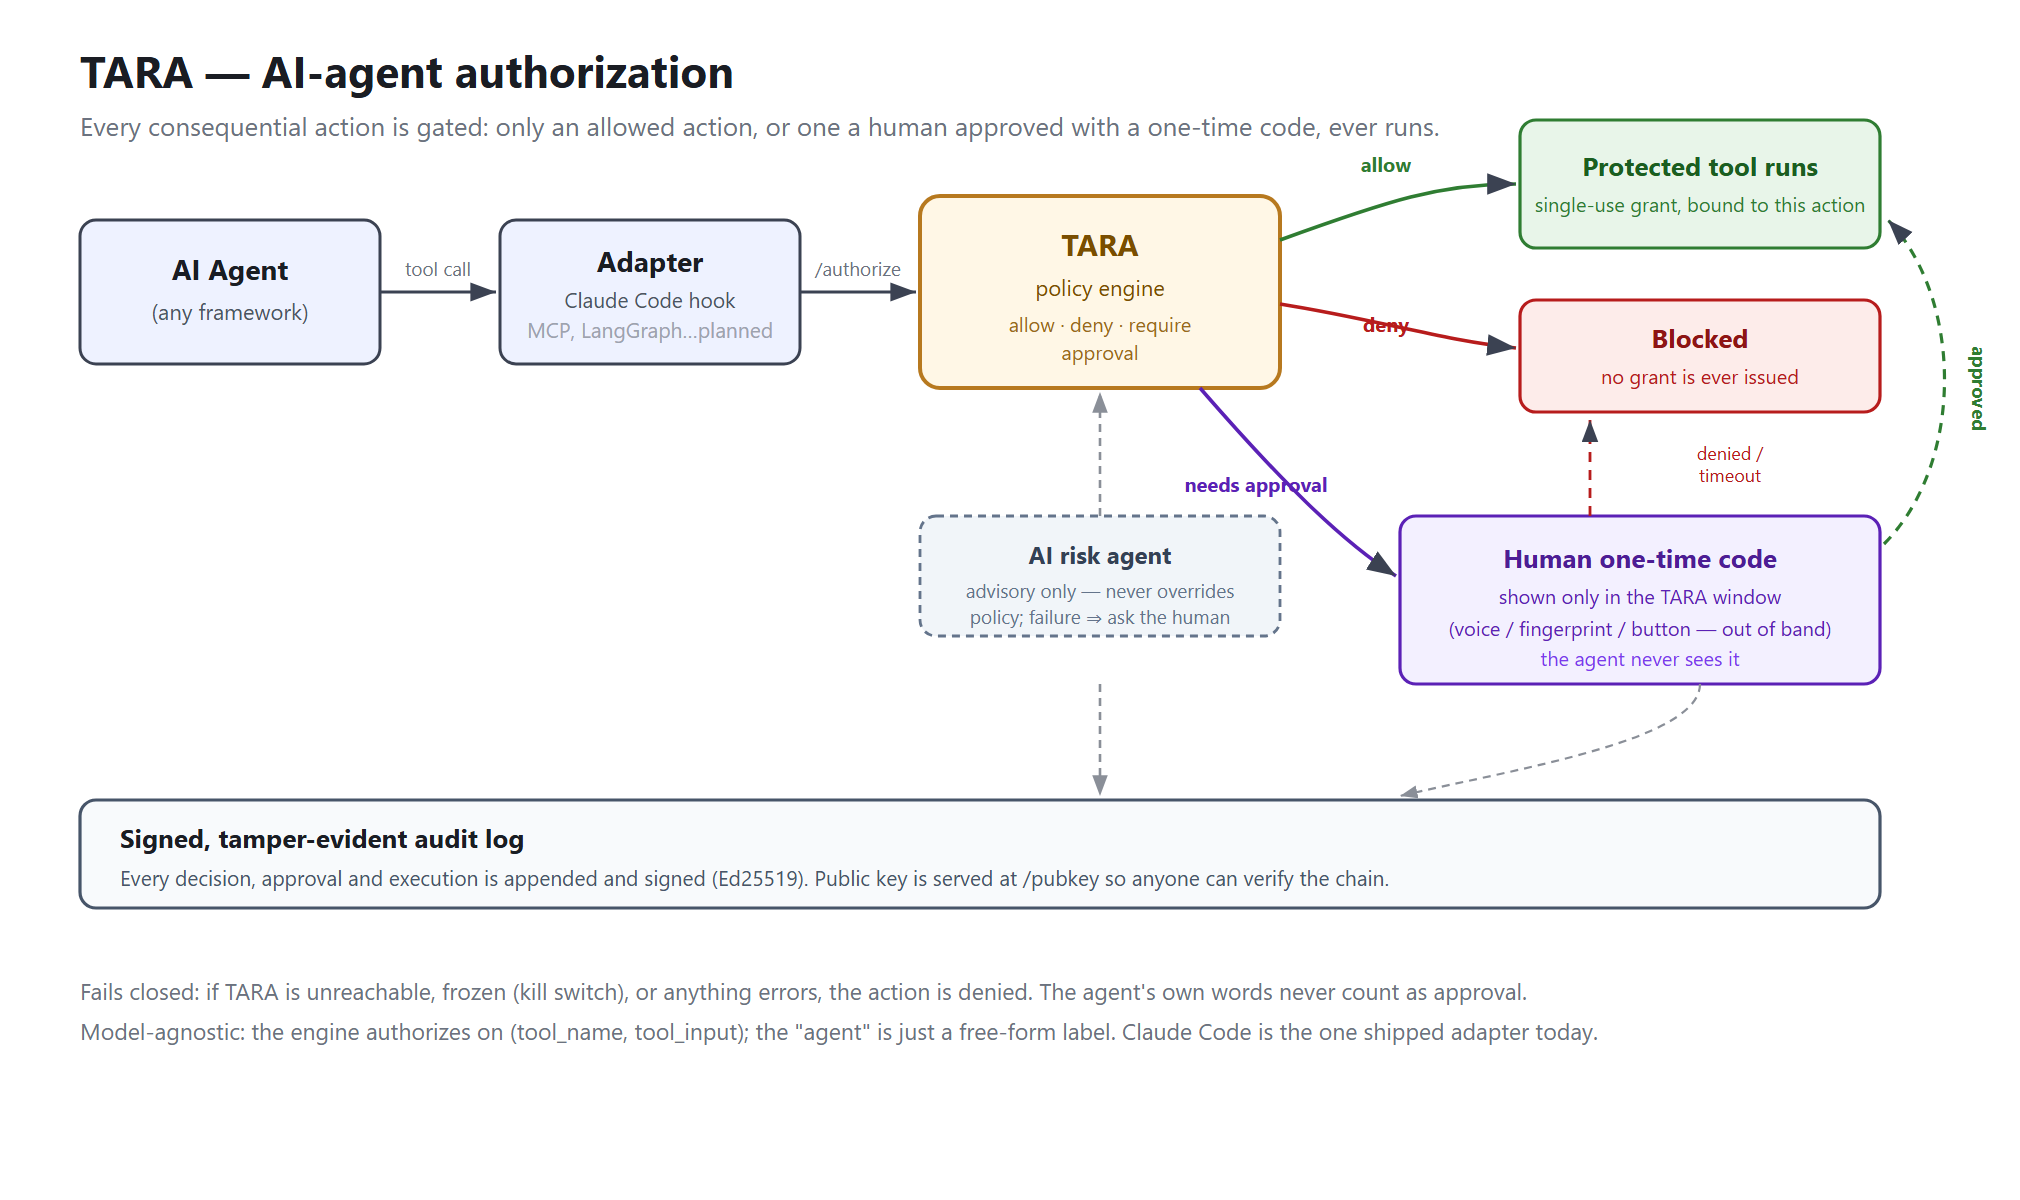
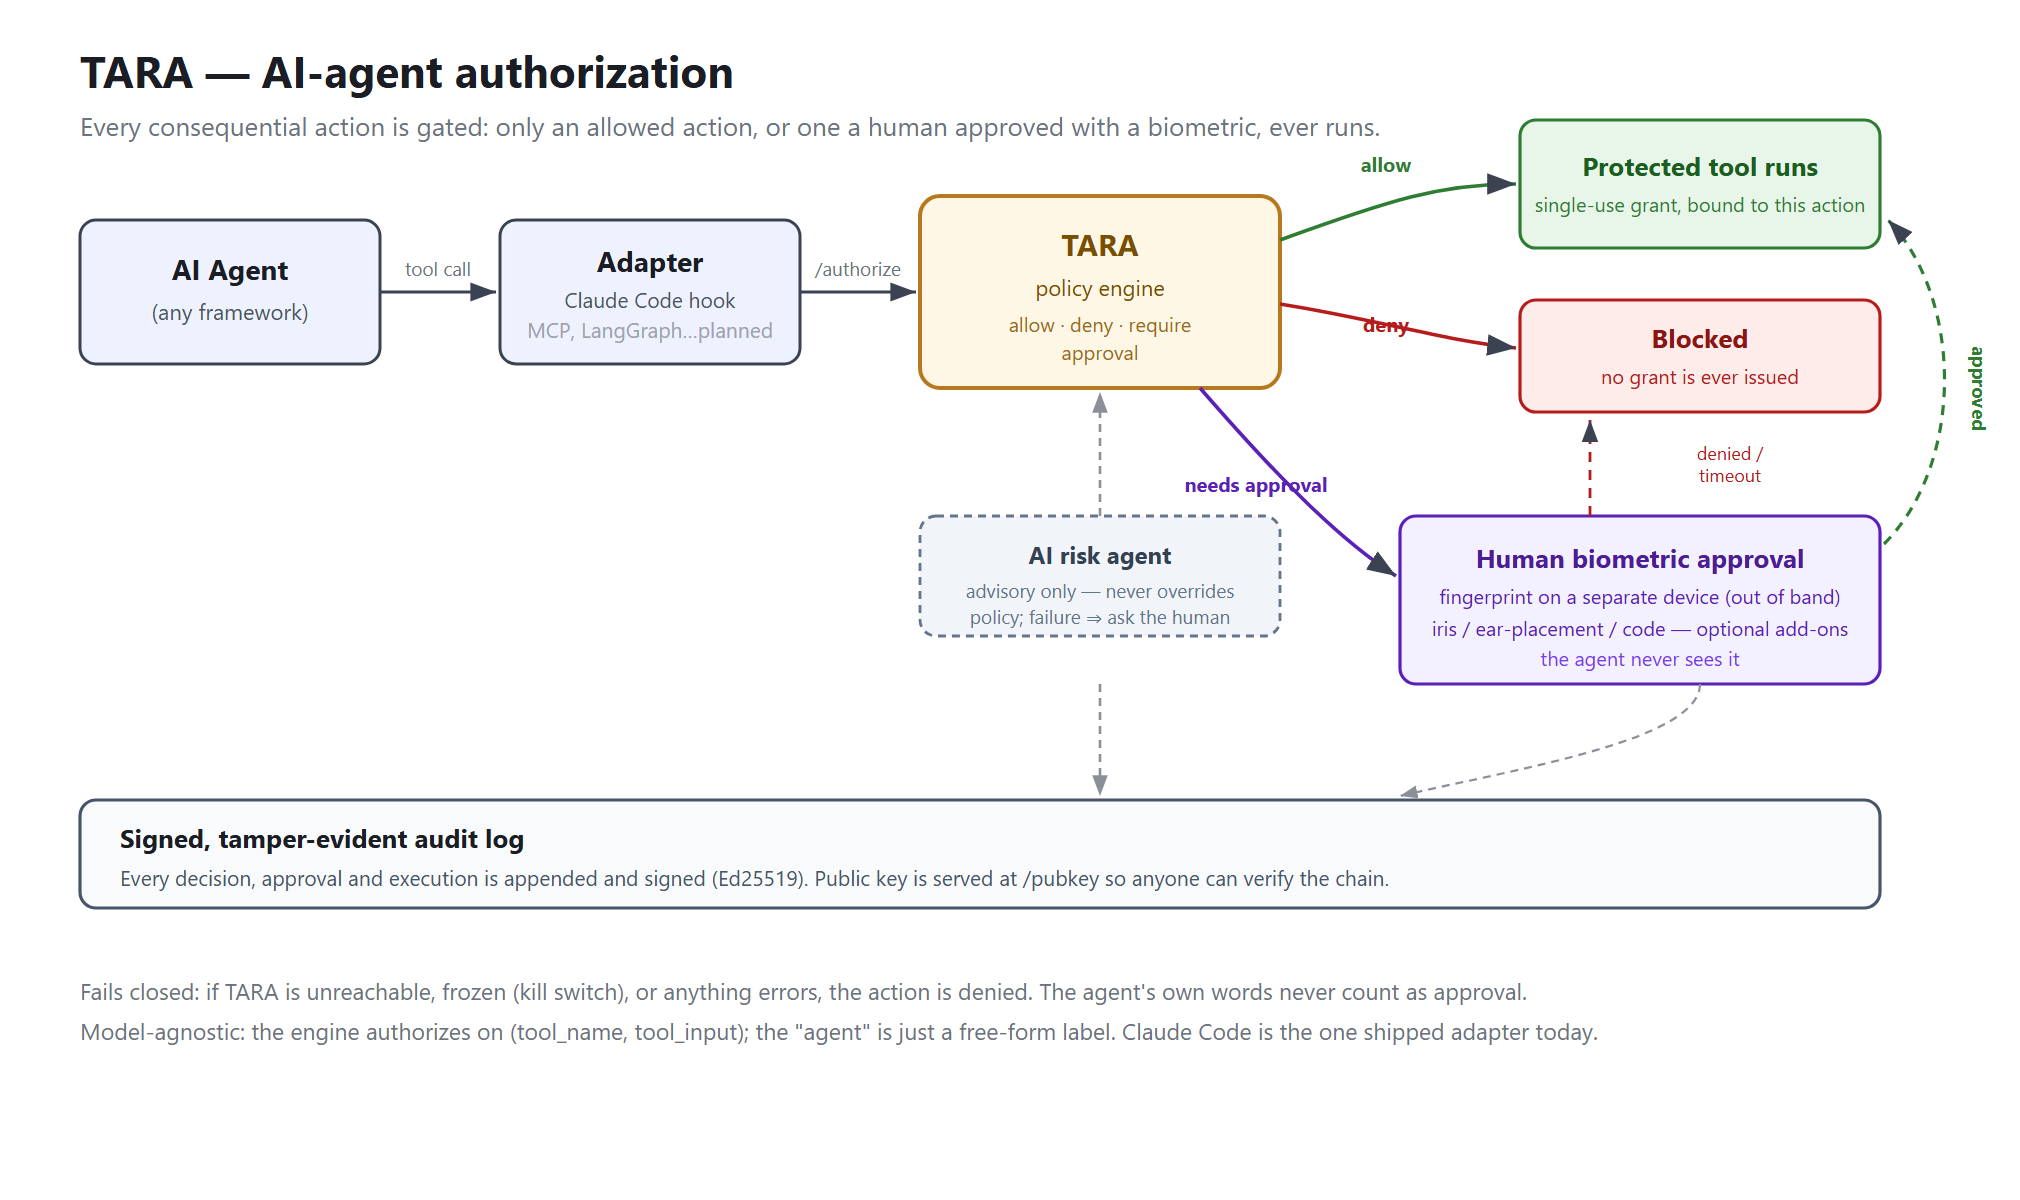
Reframe human approval as biometric (fingerprint), not one-time code
Correct the docs and architecture diagram: approval is an out-of-band human
biometric on a separate device (fingerprint today; iris / ear-placement and a
one-time code as additional/fallback checks). The voice/speaker component only
adds friction and is not an approval path. Updates README, INSTALL, DEMO,
TEST_RESULTS, CHANGELOG, SECURITY, and docs/architecture.svg/.png.

Changed region(s): [[0.7173, 0.4625, 0.9045, 0.555], [0.5614, 0.0925, 0.7173, 0.1233]]

diff --git a/README.md b/README.md
@@ -1,8 +1,8 @@
 # TARA — a model-agnostic authorization layer for AI agents
 
-**TARA sits between an autonomous AI agent and the actions it can take, and lets only authorized actions through.** Every tool call an agent attempts — reading a file, sending an email, moving money, deleting data, running a shell command — is checked against an explicit policy *before* it runs. Low-risk actions pass; consequential ones are blocked until a human approves them with a one-time code that the agent never sees; actions against TARA's own protected resources are denied outright and approval cannot unlock them. TARA **fails closed**: if it is unreachable, frozen, or anything goes wrong, the action is denied.
+**TARA sits between an autonomous AI agent and the actions it can take, and lets only authorized actions through.** Every tool call an agent attempts — reading a file, sending an email, moving money, deleting data, running a shell command — is checked against an explicit policy *before* it runs. Low-risk actions pass; consequential ones are blocked until a human approves them with a **biometric** — a fingerprint on a separate approval device — that the agent never sees; actions against TARA's own protected resources are denied outright and approval cannot unlock them. TARA **fails closed**: if it is unreachable, frozen, or anything goes wrong, the action is denied.
 
-Nothing TARA decides depends on text the agent produced. A prompt-injection payload that says *"the user already approved this"* changes nothing — approval comes only from an out-of-band human code, and decisions come from the policy file.
+Nothing TARA decides depends on text the agent produced. A prompt-injection payload that says *"the user already approved this"* changes nothing — approval comes only from an out-of-band human biometric, and decisions come from the policy file.
 
 > **Status:** working prototype. The authorization engine and one adapter (Claude Code) are implemented and covered by **213 passing security tests**. Additional framework adapters (MCP, LangGraph, Microsoft Agent Framework) are on the [roadmap](ROADMAP.md) and clearly marked *planned*.
 
@@ -25,7 +25,7 @@ flowchart LR
     B -->|/authorize| C{"TARA<br/>policy engine"}
     C -->|allow| D["Protected tool runs<br/>single-use grant"]
     C -->|deny| E["Blocked<br/>no grant issued"]
-    C -->|needs approval| F["Human one-time code<br/>shown only in TARA window<br/>(agent never sees it)"]
+    C -->|needs approval| F["Human biometric approval<br/>fingerprint on a separate device<br/>(agent never sees it)"]
     F -->|approved| D
     F -->|denied / timeout| E
     R["AI risk agent<br/>advisory only"] -.-> C
@@ -38,7 +38,7 @@ A rendered diagram is in [`docs/architecture.svg`](docs/architecture.svg) (PNG: 
 1. The agent attempts a tool call.
 2. An **adapter** for that agent framework intercepts the call and asks TARA to authorize it (`POST /authorize`). The shipped adapter is a [Claude Code](https://claude.com/claude-code) hook ([`tara/hook.py`](tara/hook.py)).
 3. The **policy engine** ([`tara/core.py`](tara/core.py)) evaluates the action against [`policy.yaml`](policy.yaml) and returns `allow`, `deny`, or `pending` (needs a human).
-4. On `allow`, the tool runs. On `deny`, it is blocked and no grant is ever issued. On `pending`, TARA shows a **one-time code** in a local approval window; a human approves out-of-band (voice, fingerprint, or a button), and only then does TARA issue a **single-use grant bound to that exact action**.
+4. On `allow`, the tool runs. On `deny`, it is blocked and no grant is ever issued. On `pending`, a human must approve **out-of-band on a separate approval device, with a biometric** — a fingerprint today (two *different* enrolled fingerprints for critical, two-person actions). Only then does TARA issue a **single-use grant bound to that exact action**. A one-time code shown in the local window, and additional biometric factors (iris, ear-placement), can layer on as further checks; the agent never sees any of them.
 5. Every decision, approval, and execution is appended to a **signed, tamper-evident audit log** (Ed25519); the public key is served at `GET /pubkey` so anyone can verify the chain.
 
 ### Why "model-agnostic"
@@ -48,11 +48,11 @@ The engine authorizes on `(tool_name, tool_input)`. The `agent` argument to `Tar
 ## Key properties
 
 - **Fails closed.** Unreachable, frozen (kill switch), or any error ⇒ deny. See `test_hook_denies_when_tara_is_down`.
-- **The agent's words never authorize.** Injected "approval" text is ignored; approval is an out-of-band human code the agent cannot see. See `test_injected_claim_of_approval_is_ignored`.
+- **The agent's words never authorize.** Injected "approval" text is ignored; approval is an out-of-band human biometric the agent cannot see. See `test_injected_claim_of_approval_is_ignored`.
 - **Protected resources cannot be unlocked by approval.** TARA's own files, keys, audit log, and the agent's credentials are hard-denied. See `test_relative_path_into_tara_is_denied`.
 - **Grants are single-use and action-bound.** A grant authorizes one execution of one exact action (tool + arguments, bound by a SHA-256 action hash) and is burned on use; replays are rejected. See `test_approved_grant_executes_once`, `test_grant_replay_is_rejected`.
 - **Data-aware escalation.** What the agent has read constrains where data may go: reading controlled/PHI/SSN-shaped data escalates or denies later outbound actions (two-person approval for PHI).
-- **Tiered human approval.** `code` (one-time code), `confirm` (a spoken yes, for accident-prevention), and `two_person` (two different approvers) by risk level.
+- **Tiered, biometric human approval.** Approval is a biometric match on a separate device — a fingerprint today; `two_person` (two *different* enrolled biometrics) for critical actions, and a lighter `confirm` for medium risk. A one-time code is a fallback, and further factors (iris, ear-placement) can be added as extra checks.
 - **Tamper-evident audit.** Append-only, Ed25519-signed; independently verifiable via `/pubkey`.
 - **Advisory AI risk agent, never the authority.** A separate, tool-less model can classify an action in context, but it can never unlock a protected resource or skip a required approval; if it fails, a human decides.
 
@@ -86,7 +86,7 @@ Full setup — including running the authorization server and wiring the Claude 
 | [`examples/demo.py`](examples/demo.py) | Runnable allow/deny/approval demonstration |
 | [`docs/architecture.svg`](docs/architecture.svg) | Architecture diagram |
 
-*(The repository also contains an experimental voice-approval subsystem — a hands-free way to approve requests by speaking a code — which has additional, optional dependencies. It is not required for the authorization core and is not needed to run the demo or the tests.)*
+*(Biometric approval is handled on a separate hardware approval device — fingerprint today, with room for additional factors such as iris or ear-placement as extra checks. The repository also contains an optional voice/speaker component that only ever **adds friction** — an unrecognized voice asks for more — and never grants approval; it has additional, optional dependencies and is not required for the authorization core, the demo, or the tests.)*
 
 ## Security
 

diff --git a/CHANGELOG.md b/CHANGELOG.md
@@ -10,8 +10,8 @@ reaches 1.0.
 First public release of the working prototype.
 
 ### Added
-- **Authorization engine** (`tara/core.py`): policy evaluation with first-match-wins rules; hard-denied protected paths and shell patterns; single-use, action-bound, session-bound, time-limited grants; tiered human approval (one-time code / spoken confirm / two-person); data-aware escalation for CUI, PHI, and SSN-shaped data; append-only Ed25519-signed audit log; kill switch; and fail-closed behavior throughout.
-- **Local authorization server** (`tara/server.py`): loopback HTTP API (`/authorize`, `/wait`, `/consume`, `/observe`, and `GET /pubkey`) plus a desktop approval window that displays one-time codes.
+- **Authorization engine** (`tara/core.py`): policy evaluation with first-match-wins rules; hard-denied protected paths and shell patterns; single-use, action-bound, session-bound, time-limited grants; tiered biometric human approval (fingerprint; two-person via two different enrolled fingerprints; a lighter confirm for medium risk; one-time-code fallback); data-aware escalation for CUI, PHI, and SSN-shaped data; append-only Ed25519-signed audit log; kill switch; and fail-closed behavior throughout.
+- **Local authorization server** (`tara/server.py`): loopback HTTP API (`/authorize`, `/wait`, `/consume`, `/observe`, and `GET /pubkey`) plus a desktop approval window that shows each pending request (with a fallback one-time code).
 - **Claude Code adapter** (`tara/hook.py`): PreToolUse and PostToolUse hooks that route every tool call through TARA and fail closed if it is unreachable.
 - **Advisory AI risk agent** (`tara/risk_agent.py`): an optional, tool-less reviewer that can classify an action in context but never overrides policy or a required approval.
 - **Security test suite** (`tests/test_tara.py`): 213 passing attack/failure scenarios.

diff --git a/INSTALL.md b/INSTALL.md
@@ -62,7 +62,7 @@ OK
 
 ## 4. Run the authorization server
 
-The server listens on **`127.0.0.1:8765`** (loopback only) and opens a desktop **approval window** where one-time codes appear.
+The server listens on **`127.0.0.1:8765`** (loopback only) and opens a desktop **approval window** that shows each pending request. Primary approval is a **biometric (a fingerprint) on a separate approval device**; a one-time code in this window is available as a fallback.
 
 ```bash
 python tara/server.py
@@ -106,9 +106,9 @@ Add hooks to your Claude Code settings so each tool call is routed through TARA.
 }
 ```
 
-With the server running and the hooks in place, Claude Code will block on TARA for every tool call: allowed actions proceed, risky ones wait for a one-time code in the TARA window, and denied ones never execute.
+With the server running and the hooks in place, Claude Code will block on TARA for every tool call: allowed actions proceed, risky ones wait for a human **biometric approval** (a fingerprint on the TARA device; a one-time code in the window is a fallback), and denied ones never execute.
 
-> **Windows voice stack (optional).** `start_tara.ps1` launches the server together with an experimental voice-approval bridge. That path has additional, optional dependencies and machine-specific paths; it is not required to use TARA's authorization core.
+> **Windows hardware/voice bridge (optional).** `start_tara.ps1` launches the server together with the bridge to the hardware approval device and an optional voice/speaker component (which only adds friction — an unrecognized voice asks for more — and never grants approval). That path has additional, optional dependencies and machine-specific paths; it is not required to use TARA's authorization core.
 
 ## Troubleshooting
 

diff --git a/TEST_RESULTS.md b/TEST_RESULTS.md
@@ -46,7 +46,7 @@ The 213 scenarios exercise, among others:
 - **Policy evaluation** — allow / deny / approve decisions, first-match-wins rule ordering, and the default path.
 - **Protected resources** — TARA's own files, keys, audit log, and the agent's credentials cannot be read or written, including via relative paths and shell patterns; approval cannot unlock them.
 - **Grants** — single-use, bound to one exact action (tool + arguments) by hash, session-bound, time-limited; replays and cross-action reuse are rejected.
-- **Human approval** — one-time codes, wrong-code lockout, the spoken-yes (`confirm`) level, and two-person approval (two different codes / two different fingerprints) for critical actions.
+- **Human approval** — biometric (fingerprint) approval and its lockout after repeated failures, two-person approval (two *different* enrolled fingerprints) for critical actions, the lighter `confirm` level, and the one-time-code fallback.
 - **Prompt-injection resistance** — text in the action claiming prior approval, or instructing the reviewer, is ignored.
 - **Fail-closed behavior** — when TARA is down, frozen (kill switch), or returns an error, the hook denies.
 - **Data-aware escalation** — reading controlled (CUI), PHI, or SSN-shaped data escalates or denies later outbound actions.

diff --git a/docs/DEMO.md b/docs/DEMO.md
@@ -6,7 +6,9 @@ This page shows TARA making real decisions, with proof that **denied and unappro
 python examples/demo.py
 ```
 
-In the demo, *"TOOL RAN"* is true only when TARA produced a **usable single-use grant** — exactly the condition an adapter requires before it runs the tool. A hard deny never produces one; a pending request produces one only after a human enters the one-time code; and each grant works exactly once.
+In the demo, *"TOOL RAN"* is true only when TARA produced a **usable single-use grant** — exactly the condition an adapter requires before it runs the tool. A hard deny never produces one; a pending request produces one only after a human approves it; and each grant works exactly once.
+
+> **Note on approval method.** In a real deployment, a human approves on a separate device with a **biometric — a fingerprint** (two *different* enrolled fingerprints for critical, two-person actions). Because this demo runs **headless, with no approval hardware**, it exercises the equivalent **one-time-code** approval path (`approve_code`) to stand in for the fingerprint. The decision logic and the single-use-grant guarantees are identical either way.
 
 ## Captured output
 

diff --git a/SECURITY.md b/SECURITY.md
@@ -33,8 +33,8 @@ In scope: the authorization core (`tara/core.py`), the server (`tara/server.py`)
 Out of scope / expected behavior:
 
 - TARA **fails closed** by design: making it deny an action (e.g. by taking the server down) is not a vulnerability.
-- The experimental voice-approval subsystem is a prototype and not part of the hardened core.
-- The approval window and one-time codes assume a trusted local display; an attacker who already fully controls the user's desktop is outside the threat model.
+- The optional voice/speaker component only adds friction (an unrecognized voice asks for more) and is neither an approval path nor part of the hardened core.
+- The biometric approval device and the fallback one-time code assume a trusted local device and display; an attacker who already fully controls the user's desktop or that device is outside the threat model.
 
 ## Supported versions
 
